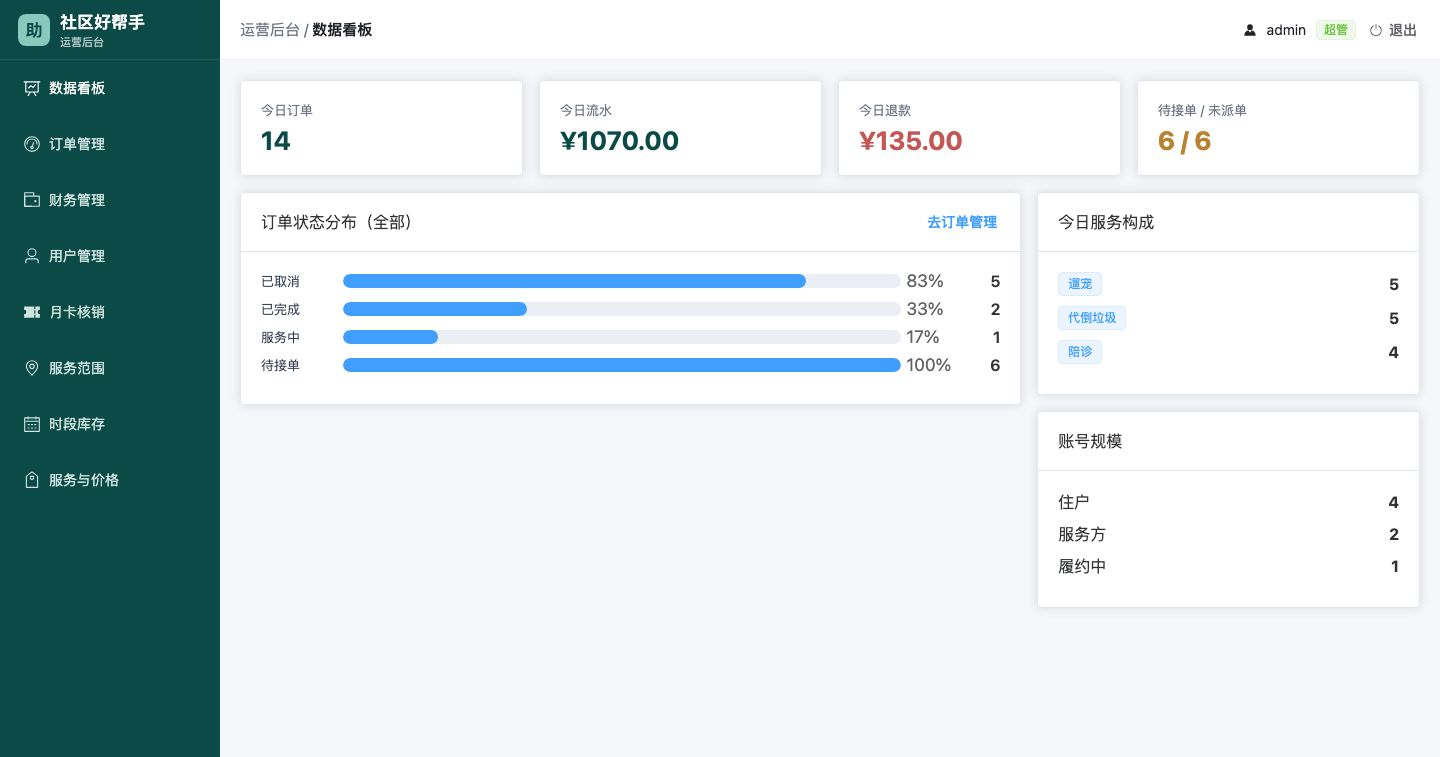
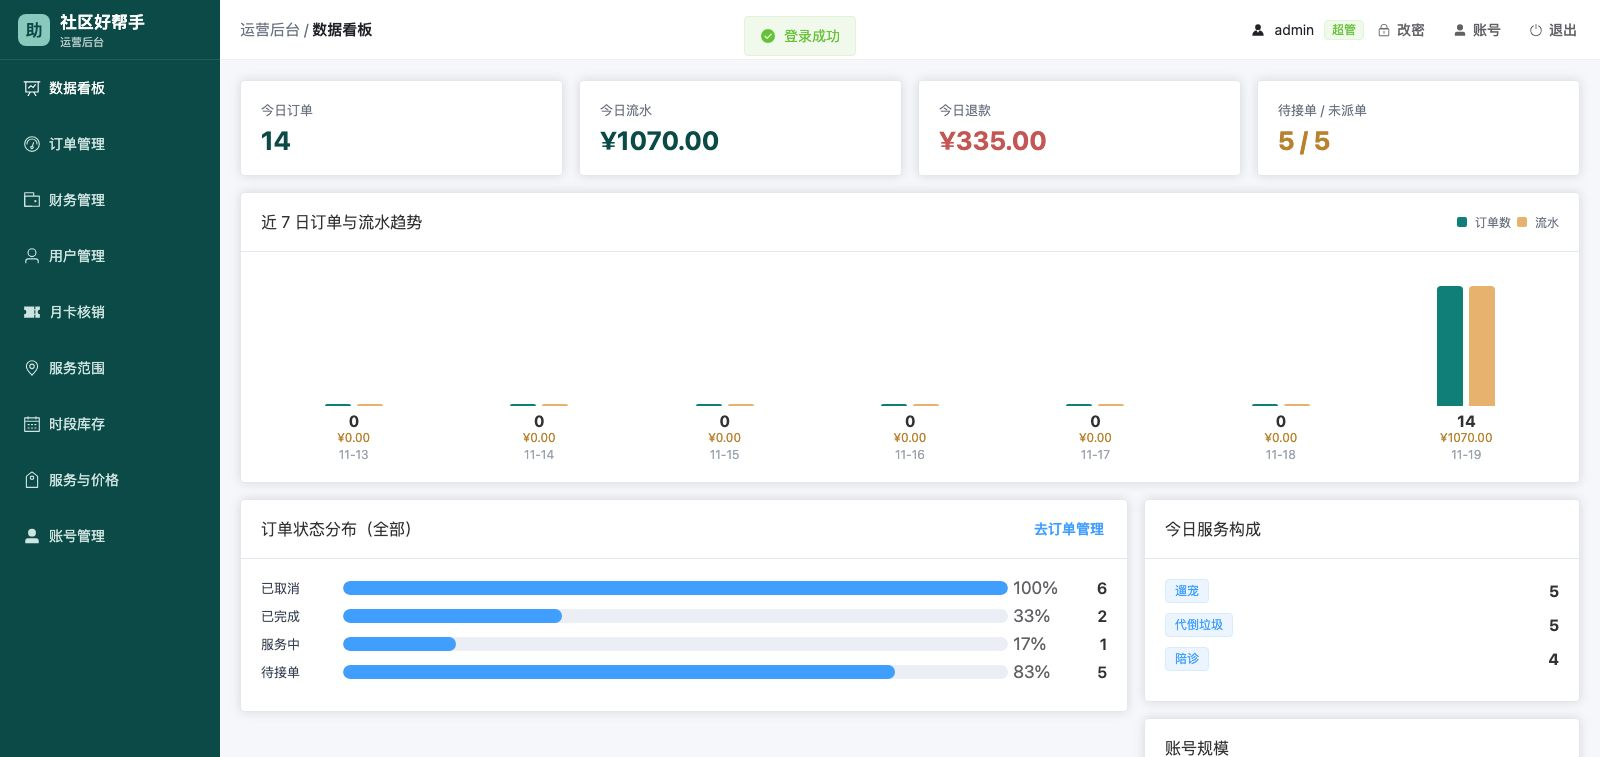
feat: 订单 CSV 导出补全字段 + 看板近 7 日趋势
- CSV 列 13→20：下单用户/服务方昵称、联系人/电话/地址、就诊人/医院、支付时间，
  金额改元两位小数（昵称批量回填防 N+1）
- stats 接口加 recent_days 近 7 日订单与流水（缺数补零），看板新增趋势柱状图
- 截图 07 更新

diff --git a/admin/src/views/dashboard/index.vue b/admin/src/views/dashboard/index.vue
@@ -1,5 +1,5 @@
 <script setup lang="ts">
-import { onMounted, ref } from 'vue'
+import { computed, onMounted, ref } from 'vue'
 import { useRouter } from 'vue-router'
 import { getStats, type AdminStats } from '@/api'
 
@@ -24,6 +24,11 @@ const SERVICE_LABELS: Record<string, string> = {
   accompany: '陪诊',
 }
 const yuan = (fen: number) => `¥${(fen / 100).toFixed(2)}`
+
+// 趋势柱状：按组内最大值归一，最高 120px
+const maxOrders = computed(() => Math.max(1, ...(stats.value?.recent_days ?? []).map((d) => d.orders)))
+const maxGmv = computed(() => Math.max(1, ...(stats.value?.recent_days ?? []).map((d) => d.gmv)))
+const barH = (v: number, max: number) => `${Math.max(2, Math.round((v / max) * 120))}px`
 
 async function load() {
   loading.value = true
@@ -63,6 +68,40 @@ onMounted(load)
           <div class="stat-num warn">
             {{ stats?.pending_accept ?? '-' }} / {{ stats?.unassigned ?? '-' }}
           </div>
+        </el-card>
+      </el-col>
+    </el-row>
+
+    <el-row :gutter="16" class="mt">
+      <el-col :span="24">
+        <el-card>
+          <template #header>
+            <div class="card-head">
+              <span>近 7 日订单与流水趋势</span>
+              <span class="trend-legend">
+                <i class="lg lg-order" /> 订单数
+                <i class="lg lg-gmv" /> 流水
+              </span>
+            </div>
+          </template>
+          <div v-if="stats?.recent_days?.length" class="trend">
+            <div v-for="d in stats.recent_days" :key="d.date" class="trend-col">
+              <div class="bars">
+                <div
+                  class="bar bar-order" :style="{ height: barH(d.orders, maxOrders) }"
+                  :title="`${d.date} 订单 ${d.orders} 单`"
+                />
+                <div
+                  class="bar bar-gmv" :style="{ height: barH(d.gmv, maxGmv) }"
+                  :title="`${d.date} 流水 ${yuan(d.gmv)}`"
+                />
+              </div>
+              <div class="trend-num">{{ d.orders }}</div>
+              <div class="trend-gmv">{{ yuan(d.gmv) }}</div>
+              <div class="trend-date">{{ d.date.slice(5) }}</div>
+            </div>
+          </div>
+          <el-empty v-else description="暂无数据" :image-size="60" />
         </el-card>
       </el-col>
     </el-row>
@@ -127,4 +166,17 @@ onMounted(load)
 .dist-bar { flex: 1; }
 .dist-count { width: 32px; text-align: right; font-weight: 600; }
 .svc-row { display: flex; justify-content: space-between; align-items: center; margin-bottom: 10px; }
+.trend { display: flex; justify-content: space-around; align-items: flex-end; min-height: 190px; padding-top: 8px; }
+.trend-col { text-align: center; width: 90px; }
+.bars { display: flex; gap: 6px; align-items: flex-end; justify-content: center; height: 122px; }
+.bar { width: 26px; border-radius: 4px 4px 0 0; }
+.bar-order { background: #0f7f78; }
+.bar-gmv { background: #e6b26e; }
+.trend-num { font-weight: 700; margin-top: 6px; }
+.trend-gmv { color: #b88230; font-size: 12px; }
+.trend-date { color: #9aa3ad; font-size: 12px; margin-top: 2px; }
+.trend-legend { font-size: 12px; color: #6b7280; display: flex; align-items: center; gap: 6px; }
+.lg { display: inline-block; width: 10px; height: 10px; border-radius: 2px; margin-right: 2px; }
+.lg-order { background: #0f7f78; }
+.lg-gmv { background: #e6b26e; }
 </style>

diff --git a/admin/src/api/index.ts b/admin/src/api/index.ts
@@ -331,6 +331,7 @@ export interface AdminStats {
   providers: number
   status_dist: { status: string; count: number }[]
   service_dist: { service_type: string; count: number }[]
+  recent_days?: { date: string; orders: number; gmv: number }[]
 }
 export const getStats = () => request<AdminStats>('/api/admin/stats')
 

diff --git a/server/internal/handler/admin_ops.go b/server/internal/handler/admin_ops.go
@@ -2,6 +2,7 @@ package handler
 
 import (
 	"encoding/csv"
+	"encoding/json"
 	"fmt"
 	"net/http"
 	"strconv"
@@ -12,6 +13,7 @@ import (
 	"github.com/alinger/community-handyman/server/internal/dto"
 	"github.com/alinger/community-handyman/server/internal/errs"
 	"github.com/alinger/community-handyman/server/internal/middleware"
+	"github.com/alinger/community-handyman/server/internal/model"
 	"github.com/alinger/community-handyman/server/pkg/response"
 )
 
@@ -326,32 +328,66 @@ func (a *API) AdminExportOrders(c *gin.Context) {
 		return
 	}
 
+	// 批量回填下单用户/服务方昵称（一次 IN 查询，防 N+1）
+	ids := make([]uint64, 0, len(list)*2)
+	for i := range list {
+		ids = append(ids, list[i].UserID)
+		if list[i].ProviderID != nil {
+			ids = append(ids, *list[i].ProviderID)
+		}
+	}
+	nick, _ := a.Admin.NicknameMap(c.Request.Context(), ids)
+
 	c.Header("Content-Type", "text/csv; charset=utf-8")
 	c.Header("Content-Disposition",
 		fmt.Sprintf("attachment; filename=orders_%s.csv", time.Now().Format("20060102_150405")))
 	// BOM：Excel 打开 UTF-8 CSV 不乱码
 	c.Writer.WriteString("\xEF\xBB\xBF")
 	w := csv.NewWriter(c.Writer)
-	_ = w.Write([]string{"订单号", "服务类型", "计划", "服务日期", "时段", "状态",
-		"总价(分)", "已付(分)", "已退(分)", "服务方ID", "创建时间", "完成时间", "取消原因"})
+	_ = w.Write([]string{"订单号", "服务类型", "套餐", "服务日期", "时段", "状态",
+		"总价(元)", "已付(元)", "已退(元)", "下单用户", "服务方",
+		"联系人", "联系电话", "服务地址", "就诊人", "就诊医院",
+		"创建时间", "支付时间", "完成时间", "取消原因"})
+	yuan := func(fen int64) string {
+		return strconv.FormatFloat(float64(fen)/100, 'f', 2, 64)
+	}
 	for _, o := range list {
-		finished := ""
-		if o.FinishedAt != nil {
-			finished = o.FinishedAt.Format("2006-01-02 15:04:05")
-		}
-		provider := ""
+		fin := tsOrEmpty(o.FinishedAt)
+		paid := tsOrEmpty(o.PaidAt)
+		prov := ""
 		if o.ProviderID != nil {
-			provider = strconv.FormatUint(*o.ProviderID, 10)
+			prov = nick[*o.ProviderID]
 		}
+		addr := parseAddrSnapshot(o.AddressSnapshot)
 		_ = w.Write([]string{
 			o.OrderNo, string(o.ServiceType), string(o.Plan),
 			o.ServiceDate.Time().Format("2006-01-02"), o.SlotCode, string(o.Status),
-			strconv.FormatInt(o.TotalAmount, 10), strconv.FormatInt(o.PaidAmount, 10),
-			strconv.FormatInt(o.RefundedAmount, 10), provider,
-			o.CreatedAt.Format("2006-01-02 15:04:05"), finished, o.CancelReason,
+			yuan(o.TotalAmount), yuan(o.PaidAmount), yuan(o.RefundedAmount),
+			nick[o.UserID], prov,
+			addr.ContactName, addr.ContactPhone,
+			addr.Community + " " + addr.HouseNo,
+			o.PatientName, o.Hospital,
+			o.CreatedAt.Format("2006-01-02 15:04:05"), paid, fin, o.CancelReason,
 		})
 	}
 	w.Flush()
+}
+
+// tsOrEmpty 时间指针格式化，nil 返回空串。
+func tsOrEmpty(t *time.Time) string {
+	if t == nil {
+		return ""
+	}
+	return t.Format("2006-01-02 15:04:05")
+}
+
+// parseAddrSnapshot 解析订单地址快照，失败返回零值。
+func parseAddrSnapshot(raw model.JSON) dto.AddressResp {
+	var a dto.AddressResp
+	if len(raw) > 0 {
+		_ = json.Unmarshal(raw, &a)
+	}
+	return a
 }
 
 // ---------- 后台账号管理 ----------

diff --git a/server/internal/service/admin_ops.go b/server/internal/service/admin_ops.go
@@ -132,7 +132,10 @@ func (s *AdminService) OrderEvents(ctx context.Context, orderNo string) ([]dto.A
 // Stats 看板首页数据。今日口径按服务器本地时区的自然日。
 func (s *AdminService) Stats(ctx context.Context) (*dto.AdminStats, error) {
 	dayStart := time.Now().Truncate(24 * time.Hour)
-	st := &dto.AdminStats{StatusDist: []dto.AdminStatusCount{}, ServiceDist: []dto.AdminServiceCount{}}
+	st := &dto.AdminStats{
+		StatusDist: []dto.AdminStatusCount{}, ServiceDist: []dto.AdminServiceCount{},
+		RecentDays: []dto.AdminDayStat{},
+	}
 
 	type cnt struct {
 		C int64
@@ -205,6 +208,32 @@ func (s *AdminService) Stats(ctx context.Context) (*dto.AdminStats, error) {
 	}
 	for _, r := range vd {
 		st.ServiceDist = append(st.ServiceDist, dto.AdminServiceCount{ServiceType: r.ServiceType, Count: r.C})
+	}
+
+	// 近 7 日趋势：订单数按 created_at，GMV 按 paid_at；缺数的日子补零
+	type dayRow struct {
+		Day    time.Time
+		Orders int64
+		GMV    int64
+	}
+	weekAgo := dayStart.AddDate(0, 0, -6)
+	var rows []dayRow
+	if err := s.db.WithContext(ctx).Model(&model.Order{}).
+		Where("created_at >= ?", weekAgo).
+		Select("DATE(created_at) AS day, COUNT(*) AS orders, " +
+			"COALESCE(SUM(CASE WHEN paid_at IS NOT NULL THEN paid_amount ELSE 0 END),0) AS gmv").
+		Group("DATE(created_at)").Scan(&rows).Error; err != nil {
+		return nil, errs.Wrap(errs.CodeInternal, err)
+	}
+	byDay := make(map[string]dayRow, len(rows))
+	for _, r := range rows {
+		byDay[r.Day.Format("2006-01-02")] = r
+	}
+	for i := 6; i >= 0; i-- {
+		d := dayStart.AddDate(0, 0, -i)
+		key := d.Format("2006-01-02")
+		r := byDay[key]
+		st.RecentDays = append(st.RecentDays, dto.AdminDayStat{Date: key, Orders: r.Orders, GMV: r.GMV})
 	}
 	return st, nil
 }

diff --git a/server/internal/dto/admin.go b/server/internal/dto/admin.go
@@ -135,6 +135,7 @@ type AdminStats struct {
 	Providers     int64               `json:"providers"`
 	StatusDist    []AdminStatusCount  `json:"status_dist"`
 	ServiceDist   []AdminServiceCount `json:"service_dist"`
+	RecentDays    []AdminDayStat      `json:"recent_days"`
 }
 
 // AdminStatusCount 各状态订单数。
@@ -144,6 +145,13 @@ type AdminStatusCount struct {
 }
 
 // AdminServiceCount 各服务类型订单数（今日）。
+// AdminDayStat 近 N 日每日订单与 GMV（看板趋势）。
+type AdminDayStat struct {
+	Date   string `json:"date"`
+	Orders int64  `json:"orders"`
+	GMV    int64  `json:"gmv"`
+}
+
 type AdminServiceCount struct {
 	ServiceType string `json:"service_type"`
 	Count       int64  `json:"count"`

diff --git a/server/README.md b/server/README.md
@@ -87,7 +87,7 @@ curl http://127.0.0.1:8080/healthz
 | GET | `/api/admin/orders/:orderNo/events` | 订单节点回放（操作轨迹） |
 | GET | `/api/admin/orders/:orderNo/records` | 后台查看服务记录 |
 | GET | `/api/admin/records/:id/file` | 后台下载/预览记录文件（鉴权 + Range） |
-| GET | `/api/admin/stats` | 运营看板（今日订单/流水/退款/待派单/状态分布） |
+| GET | `/api/admin/stats` | 运营看板（今日订单/流水/退款/待派单/状态分布）（含近 7 日订单/流水趋势） |
 | GET | `/api/admin/payments` | 支付流水分页（order_no / status 筛选） |
 | GET | `/api/admin/refunds` | 退款单分页（含操作人与退款状态跟踪） |
 | GET | `/api/admin/users` | 用户/服务方分页（role / keyword） |
